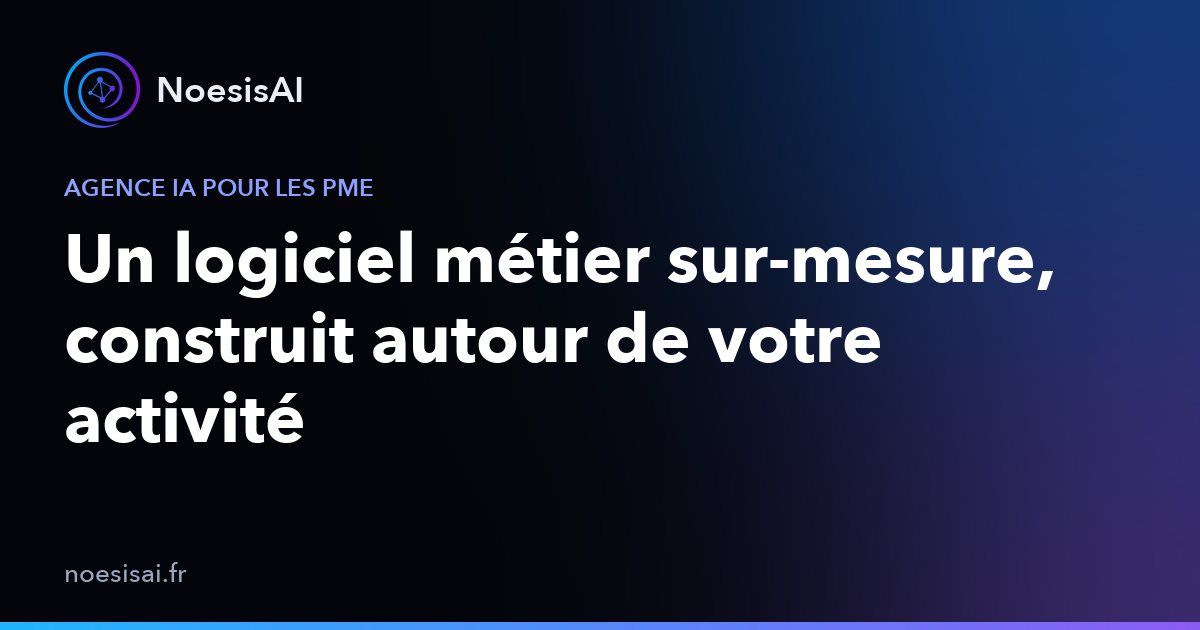
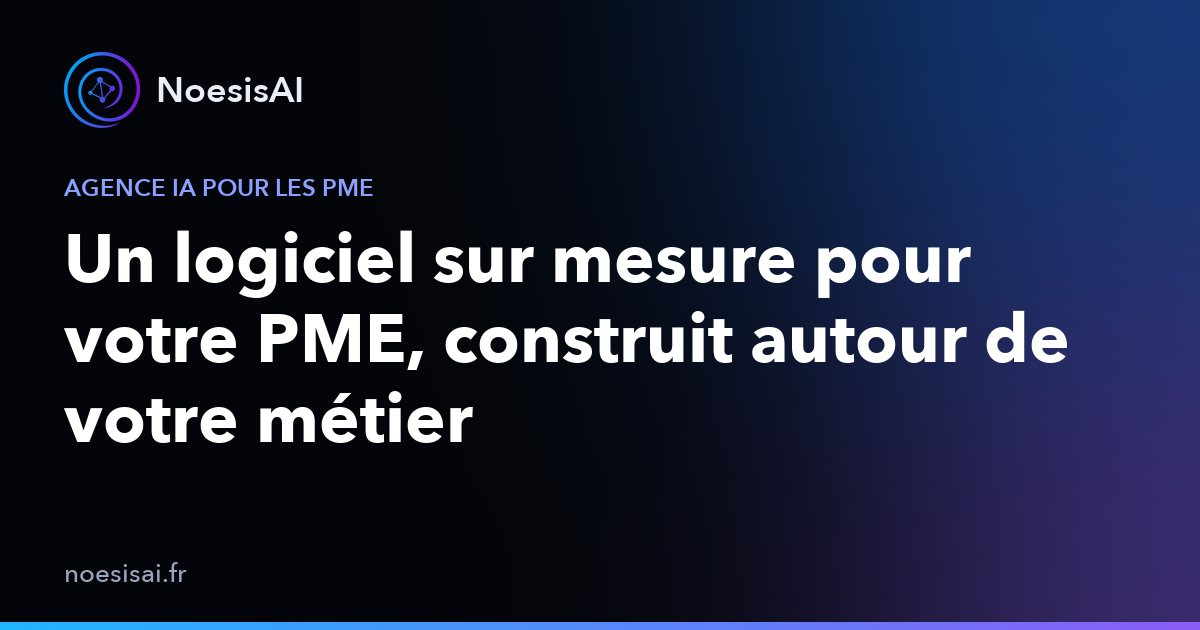
Pages de service : titre « logiciel sur mesure », prix et liens vers le blog
- /logiciel-metier : titre Google et grand titre sur « logiciel sur mesure », fourchette de prix
  dans la question « Combien coûte… », article sur le prix dans « Préparer votre projet »
- /automatisation : question « Combien coûte un agent IA ? » (pas sur l'accueil) et section
  « Préparer votre projet » (prix d'un agent IA, 150 automatisations n8n, coût de l'IA)
- Cartes de guides : 4 cartes en 2 × 2 puis sur une ligne, « Lire l'article » pour le blog
- Aperçu de /logiciel-metier et llms.txt régénérés

Changed region(s): [[0.0308, 0.4825, 0.8942, 0.6032], [0.3392, 0.3619, 0.8942, 0.4825], [0.0308, 0.6032, 0.4008, 0.7238]]

diff --git a/src/data/content.ts b/src/data/content.ts
@@ -778,6 +778,23 @@ export const GUIDES = {
     title: "Un logiciel qui s'adapte à votre entreprise",
     text: "Diagnostic, droits par salarié, agents IA et stack type pour tout réunir dans un seul outil.",
   },
+  prixLogiciel: {
+    href: "/blog/prix-logiciel-sur-mesure",
+    title: "Combien coûte un logiciel sur mesure",
+    text: "Nos prix, de 2\u00a0500 à 10\u00a0000\u00a0€, ce qui les fait varier et les coûts après la mise en ligne.",
+    cta: "Lire l'article",
+  },
+  prixAgent: {
+    href: "/blog/prix-agent-ia",
+    title: "Combien coûte un agent IA",
+    text: "Nos prix, de 2\u00a0500 à 10\u00a0000\u00a0€, le coût de chaque mois et le calcul de rentabilité avec vos chiffres.",
+    cta: "Lire l'article",
+  },
+  n8n: {
+    href: "/ressources/150-templates-n8n-claude",
+    title: "150 automatisations n8n",
+    text: "Des automatisations prêtes à reprendre, et quand confier la tâche à Claude plutôt qu'à un workflow.",
+  },
 };
 
 export type FaqItem = { q: string; a: string };
@@ -790,17 +807,22 @@ export type ServicePage = {
   cta: { title: string; subtitle: string };
 };
 
-const AUTO_FAQ = FAQ.items;
+// Sur /automatisation seulement : l'accueil garde FAQ.items tel quel.
+const PRIX_AGENT_IA: FaqItem = {
+  q: "Combien coûte un agent IA ?",
+  a: "Un agent IA sur mesure coûte de 2\u00a0500\u00a0€ à environ 10\u00a0000\u00a0€, selon le nombre d'utilisateurs et les fonctionnalités. S'y ajoute un coût d'utilisation chaque mois : la consommation de l'IA, et la téléphonie pour un agent vocal. Le détail des prix est dans notre article « Combien coûte un agent IA pour une PME ? ».",
+};
+const AUTO_FAQ: FaqItem[] = [...FAQ.items.slice(0, 3), PRIX_AGENT_IA, ...FAQ.items.slice(3)];
 
 export const PAGES: Record<"logiciel" | "automatisation" | "formation", ServicePage> = {
   logiciel: {
     hero: {
-      badge: "Logiciel métier sur-mesure · PME & indépendants",
-      title: "Un logiciel métier",
-      boxed: "sur-mesure",
-      titleEnd: "pour PME, construit autour de votre activité",
+      badge: "Logiciel sur mesure · PME & indépendants",
+      title: "Un logiciel",
+      boxed: "sur mesure",
+      titleEnd: "pour votre PME, construit autour de votre métier",
       subtitle:
-        "Devis, chantiers, heures, factures, suivi client : on part du fonctionnement réel de votre PME pour construire l'outil qui fait vraiment gagner du temps à vos équipes.",
+        "Devis, chantiers, heures, factures, suivi client : on part du fonctionnement réel de votre PME pour construire le logiciel métier qui fait vraiment gagner du temps à vos équipes.",
       images: ["/projets/muller-dashboard.webp", "/projets/odas-diffusion.webp", "/projets/hohiohen-dashboard.webp"],
     },
     rules: { title: "", subtitle: "", items: [] },
@@ -817,8 +839,8 @@ export const PAGES: Record<"logiciel" | "automatisation" | "formation", ServiceP
           a: "Un appel de 30 minutes, sans engagement. Vous nous expliquez votre fonctionnement actuel et ce qui vous fait perdre du temps. On vous dit ensuite honnêtement si un outil sur-mesure est pertinent, et sous quelle forme.",
         },
         {
-          q: "Combien coûte un outil sur-mesure ?",
-          a: "Le budget dépend du périmètre : nombre d'écrans, d'utilisateurs, d'intégrations et de fonctionnalités d'IA. Il est chiffré précisément après le cadrage technique, et validé avec vous avant le début du développement. Nous priorisons les fonctionnalités qui apportent le plus de valeur pour démarrer avec une première version utile.",
+          q: "Combien coûte un logiciel sur mesure ?",
+          a: "De 2\u00a0500\u00a0€ à environ 10\u00a0000\u00a0€, selon le nombre d'utilisateurs et les fonctionnalités : écrans, intégrations, IA. Le budget est chiffré précisément après le cadrage technique, et validé avec vous avant le début du développement. Nous priorisons les fonctionnalités qui apportent le plus de valeur pour démarrer avec une première version utile.",
         },
         {
           q: "En combien de temps aurons-nous un outil utilisable ?",

diff --git a/src/pages/services/LogicielMetier.tsx b/src/pages/services/LogicielMetier.tsx
@@ -5,9 +5,9 @@ import { Logiciels, FeaturedProject } from "../../components/Logiciels";
 import { Section, SectionHeading } from "../../components/ui/Section";
 import { GUIDES, PAGES } from "../../data/content";
 
-const TITRE = "Logiciel Métier Sur-Mesure pour PME | NoesisAI";
+const TITRE = "Création de logiciel sur mesure pour PME | NoesisAI";
 const DESCRIPTION =
-  "Devis, chantiers, heures, factures : un logiciel métier sur-mesure construit autour de votre activité, avec IA intégrée (devis à la voix, CR auto).";
+  "Logiciel sur mesure pour PME : devis, chantiers, heures, factures, avec l'IA intégrée. De 2 500 à 10 000 € selon les utilisateurs et les fonctions.";
 
 export function LogicielMetier() {
   const p = PAGES.logiciel;
@@ -18,8 +18,8 @@ export function LogicielMetier() {
         description={DESCRIPTION}
         path="/logiciel-metier"
         image="/og/logiciel-metier.jpg"
-        imageAlt="Logiciel métier sur-mesure pour PME"
-        jsonLd={[service("Logiciel métier sur-mesure", DESCRIPTION, "/logiciel-metier"), filAriane("Logiciel métier", "/logiciel-metier")]}
+        imageAlt="Logiciel sur mesure pour PME"
+        jsonLd={[service("Logiciel sur mesure pour PME", DESCRIPTION, "/logiciel-metier"), filAriane("Logiciel métier", "/logiciel-metier")]}
       />
       <PageHero {...p.hero} />
       <Logiciels />
@@ -34,8 +34,8 @@ export function LogicielMetier() {
       <TestimonialsSection />
       <GuidesSection
         title="Préparer votre projet"
-        subtitle="Nos guides pour cadrer un logiciel métier et une implémentation IA."
-        items={[GUIDES.implementation, GUIDES.logiciel, GUIDES.premierChantier]}
+        subtitle="Nos guides pour chiffrer et cadrer un logiciel sur mesure."
+        items={[GUIDES.prixLogiciel, GUIDES.logiciel, GUIDES.implementation, GUIDES.premierChantier]}
       />
       <FaqSection {...p.faq} />
       <CtaSection {...p.cta} />

diff --git a/src/components/page/Blocks.tsx b/src/components/page/Blocks.tsx
@@ -420,7 +420,7 @@ export function FaqSection({ title, items }: { title: string; items: FaqItem[] }
   );
 }
 
-type Guide = { href: string; title: string; text: string };
+type Guide = { href: string; title: string; text: string; cta?: string };
 
 /** Guides gratuits de /ressources : relie les pages du site aux ressources (maillage interne).
     Ce sont des pages HTML statiques, hors du routeur : liens <a> classiques. */
@@ -428,7 +428,7 @@ export function GuidesSection({ title, subtitle, items }: { title: string; subti
   return (
     <Section id="ressources" className="bg-white">
       <SectionHeading badge="Ressources gratuites" title={title} subtitle={subtitle} tone="light" />
-      <div className="mt-10 grid gap-4 md:grid-cols-3">
+      <div className={`mt-10 grid gap-4 ${items.length === 4 ? "md:grid-cols-2 xl:grid-cols-4" : "md:grid-cols-3"}`}>
         {items.map((g) => (
           <a
             key={g.href}
@@ -438,7 +438,7 @@ export function GuidesSection({ title, subtitle, items }: { title: string; subti
             <span className="font-display text-base font-semibold text-[#0b0b0f]">{g.title}</span>
             <span className="text-sm leading-relaxed text-slate-600">{g.text}</span>
             <span className="mt-auto pt-2 text-sm font-medium text-brand-600">
-              Lire le guide <Chevrons />
+              {g.cta ?? "Lire le guide"} <Chevrons />
             </span>
           </a>
         ))}

diff --git a/src/pages/services/Automatisation.tsx b/src/pages/services/Automatisation.tsx
@@ -1,9 +1,9 @@
 import { Seo, filAriane, service } from "../../components/Seo";
-import { LightPage, PageHero, TestimonialsSection, FaqSection, CtaSection } from "../../components/page/Blocks";
+import { LightPage, PageHero, TestimonialsSection, GuidesSection, FaqSection, CtaSection } from "../../components/page/Blocks";
 import { Problem } from "../../components/Problem";
 import { AutomationNetwork } from "../../components/page/AutomationNetwork";
 import { AutomationProcess } from "../../components/page/AutomationProcess";
-import { PAGES } from "../../data/content";
+import { GUIDES, PAGES } from "../../data/content";
 
 const TITRE = "Agence Automatisation IA & Agents Vocaux | NoesisAI";
 const DESCRIPTION =
@@ -25,6 +25,11 @@ export function Automatisation() {
       <Problem />
       <AutomationProcess />
       <TestimonialsSection />
+      <GuidesSection
+        title="Préparer votre projet"
+        subtitle="Nos guides pour chiffrer un agent IA et choisir quoi automatiser."
+        items={[GUIDES.prixAgent, GUIDES.n8n, GUIDES.couts]}
+      />
       <FaqSection {...p.faq} />
       <CtaSection {...p.cta} />
     </LightPage>

diff --git a/src/blog/articles.ts b/src/blog/articles.ts
@@ -10,7 +10,7 @@ export type Categorie = "automatisation" | "agents-vocaux" | "logiciel-metier" |
 export const CATEGORIES: Record<Categorie, { label: string; offre: string; offreLabel: string }> = {
   automatisation: { label: "Automatisation", offre: "/automatisation", offreLabel: "Automatisation IA et agents vocaux" },
   "agents-vocaux": { label: "Agents vocaux", offre: "/automatisation", offreLabel: "Agents vocaux IA" },
-  "logiciel-metier": { label: "Logiciel métier", offre: "/logiciel-metier", offreLabel: "Logiciel métier sur-mesure" },
+  "logiciel-metier": { label: "Logiciel métier", offre: "/logiciel-metier", offreLabel: "Logiciel sur mesure pour PME" },
   formation: { label: "Formation IA", offre: "/formation-ia", offreLabel: "Formation IA en entreprise" },
   "ia-par-metier": { label: "IA par métier", offre: "/", offreLabel: "Agence IA pour les PME" },
 };

diff --git a/scripts/seo_ressources.py b/scripts/seo_ressources.py
@@ -258,7 +258,7 @@ def bloc_head(h: str, slug: str, url: str, titre: str, description: str, noindex
 def llms_txt(pages: list) -> None:
     offres = [
         ("Automatisation IA et agents vocaux", "/automatisation", "workflows n8n et Make, agents vocaux qui décrochent 24 h/24"),
-        ("Logiciel métier sur-mesure", "/logiciel-metier", "devis, chantiers, heures, factures, avec l'IA intégrée"),
+        ("Logiciel sur mesure pour PME", "/logiciel-metier", "devis, chantiers, heures, factures, avec l'IA intégrée"),
         ("Formation IA en entreprise (Cockpit IA)", "/formation-ia", "former dirigeants et équipes à Claude et aux outils d'IA"),
         ("Projets clients", "/projets", "réalisations détaillées par type de mission"),
         ("Témoignages", "/temoignages", "avis des entreprises accompagnées"),
@@ -288,7 +288,7 @@ PAGES_SITE = {
     "accueil": "Agents IA, automatisations et logiciels métier pour PME",
     "automatisation": "Automatisations IA et agents vocaux qui décrochent 24 h/24",
     "formation-ia": "Le Cockpit IA : former vos équipes à l'IA en 3 mois",
-    "logiciel-metier": "Un logiciel métier sur-mesure, construit autour de votre activité",
+    "logiciel-metier": "Un logiciel sur mesure pour votre PME, construit autour de votre métier",
     "projets": "Nos projets clients : logiciels métier, agents vocaux, automatisations",
     "temoignages": "Ce que disent les entreprises que nous accompagnons",
 }
